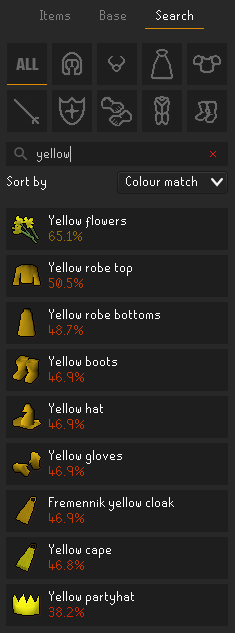
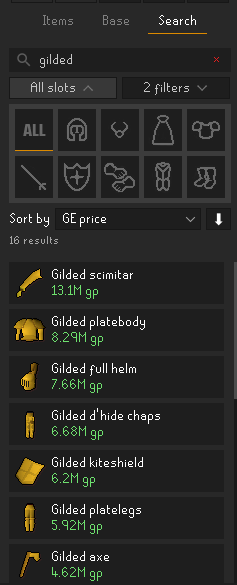
tweaks and readme updates

diff --git a/src/main/java/eq/uirs/fashionscape/panel/search/SearchPanel.java b/src/main/java/eq/uirs/fashionscape/panel/search/SearchPanel.java
@@ -35,6 +35,7 @@ import javax.swing.SwingUtilities;
 import javax.swing.border.EmptyBorder;
 import javax.swing.event.DocumentEvent;
 import javax.swing.event.DocumentListener;
+import lombok.extern.slf4j.Slf4j;
 import net.runelite.api.kit.KitType;
 import net.runelite.client.callback.ClientThread;
 import net.runelite.client.game.ItemManager;
@@ -48,6 +49,7 @@ import net.runelite.client.util.SwingUtil;
 /**
  * Tab panel that houses the search UI: bar, filters, sort, results, etc.
  */
+@Slf4j
 public class SearchPanel extends JPanel
 {
 	private static final int DEBOUNCE_DELAY_MS = 200;
@@ -161,7 +163,8 @@ public class SearchPanel extends JPanel
 		cardLayout.show(centerPanel, ERROR_PANEL);
 
 		// selects the "all" slot initially, which runs the first search
-		filterPanel = new FilterPanel(fashionManager, filters, this::onSlotChanged, this::onFiltersChanged);
+		filterPanel = new FilterPanel(fashionManager, filterStore, filters, this::onSlotChanged,
+			this::onFiltersChanged);
 		infoWrapper.add(createResetFiltersRow(), BorderLayout.CENTER);
 
 		JPanel filterBar = new JPanel(new GridLayout(1, 2, 5, 0));
@@ -357,6 +360,12 @@ public class SearchPanel extends JPanel
 		{
 			return false;
 		}
+		guardSearch(() -> startSearch(postExec));
+		return true;
+	}
+
+	private void startSearch(Runnable postExec)
+	{
 		String query = searchBar.getText().toLowerCase();
 		KitType searchSlot = slot;
 		ItemFilters searchFilters = filters;
@@ -365,21 +374,34 @@ public class SearchPanel extends JPanel
 		if (searchSlot == null && found.size() > itemSearch.largestSlotSize())
 		{
 			showTooManyResults(found.size());
-			return true;
+			return;
 		}
 		SortBy searchSort = sort;
 		boolean inverted = sortInverted;
 		boolean filtered = searchFilters.activeCount() > 0;
 		if (searchSort == SortBy.COLOR_MATCH)
 		{
-			executor.submit(() ->
-				showResults(itemSearch.sort(found, searchSort, inverted), searchSlot, filtered, postExec));
+			executor.submit(() -> guardSearch(() ->
+				showResults(itemSearch.sort(found, searchSort, inverted), searchSlot, filtered, postExec)));
 		}
 		else
 		{
 			showResults(itemSearch.sort(found, searchSort, inverted), searchSlot, filtered, postExec);
 		}
-		return true;
+	}
+
+	// later searches wait on the in-progress flag, so a failed search should still clear it.
+	private void guardSearch(Runnable step)
+	{
+		try
+		{
+			step.run();
+		}
+		catch (RuntimeException | AssertionError e)
+		{
+			log.warn("item search failed", e);
+			searchInProgress.set(false);
+		}
 	}
 
 	private void showTooManyResults(int count)

diff --git a/src/main/java/eq/uirs/fashionscape/panel/search/FilterPanel.java b/src/main/java/eq/uirs/fashionscape/panel/search/FilterPanel.java
@@ -62,7 +62,7 @@ class FilterPanel extends JPanel
 	// true while controls are updated programmatically, so listeners don't report changes
 	private boolean syncing;
 
-	FilterPanel(FashionManager fashionManager, ItemFilters initialFilters,
+	FilterPanel(FashionManager fashionManager, FilterStore filterStore, ItemFilters initialFilters,
 				Consumer<KitType> onSlotChange, Consumer<ItemFilters> onFiltersChange)
 	{
 		this.filters = initialFilters;
@@ -87,8 +87,8 @@ class FilterPanel extends JPanel
 		filterSection.add(rows, BorderLayout.CENTER);
 		filterSection.add(createResetButton(), BorderLayout.SOUTH);
 
-		setUpToggle(slotToggle);
-		setUpToggle(filtersToggle);
+		setUpToggle(slotToggle, filterStore.isSlotsExpanded(), filterStore::setSlotsExpanded);
+		setUpToggle(filtersToggle, filterStore.isFiltersExpanded(), filterStore::setFiltersExpanded);
 		refreshExpanded();
 
 		sync(initialFilters);
@@ -118,10 +118,10 @@ class FilterPanel extends JPanel
 		rowConstraints.gridy = 0;
 		addRow("Members", createComboBox(Membership.values(),
 			ItemFilters::getMembership, ItemFilters::withMembership));
-		addRow("Tradeable", createComboBox(TriState.values(),
-			ItemFilters::getTradeable, ItemFilters::withTradeable));
 		addRow("Has stats", createComboBox(TriState.values(),
 			ItemFilters::getCombatStats, ItemFilters::withCombatStats));
+		addRow("Tradeable", createComboBox(TriState.values(),
+			ItemFilters::getTradeable, ItemFilters::withTradeable));
 		addRow("Value", createComboBox(ValueSource.values(),
 			ItemFilters::getValueSource, ItemFilters::withValueSource));
 
@@ -206,12 +206,16 @@ class FilterPanel extends JPanel
 		onSlotChange.accept(newSlot);
 	}
 
-	private void setUpToggle(JToggleButton toggle)
+	private void setUpToggle(JToggleButton toggle, boolean expanded, Consumer<Boolean> saveExpanded)
 	{
+		toggle.setSelected(expanded);
 		toggle.setFocusPainted(false);
 		toggle.setHorizontalTextPosition(SwingConstants.LEADING);
 		toggle.addMouseListener(PanelUtil.hoverCursor(toggle));
-		toggle.addActionListener(e -> refreshExpanded());
+		toggle.addActionListener(e -> {
+			saveExpanded.accept(toggle.isSelected());
+			refreshExpanded();
+		});
 	}
 
 	private void refreshExpanded()

diff --git a/src/main/java/eq/uirs/fashionscape/panel/search/FilterStore.java b/src/main/java/eq/uirs/fashionscape/panel/search/FilterStore.java
@@ -12,7 +12,7 @@ import lombok.extern.slf4j.Slf4j;
 import net.runelite.client.config.ConfigManager;
 
 /**
- * Persists item filters in config, one key per filter
+ * Persists item filters and which filter panel sections are open in config, one key per setting
  */
 @Slf4j
 @RequiredArgsConstructor(onConstructor_ = {@Inject})
@@ -24,6 +24,8 @@ class FilterStore
 	private static final String KEY_VALUE_SOURCE = "searchValueSource";
 	private static final String KEY_MIN_VALUE = "searchMinValue";
 	private static final String KEY_MAX_VALUE = "searchMaxValue";
+	private static final String KEY_SLOTS_EXPANDED = "searchSlotsExpanded";
+	private static final String KEY_FILTERS_EXPANDED = "searchFiltersExpanded";
 
 	private final ConfigManager configManager;
 	private final FashionscapeConfig config;
@@ -61,6 +63,27 @@ class FilterStore
 		set(KEY_VALUE_SOURCE, filters.getValueSource());
 		set(KEY_MIN_VALUE, filters.getMinValue());
 		set(KEY_MAX_VALUE, filters.getMaxValue());
+	}
+
+	// the slots section starts open. slots used to be always visible
+	boolean isSlotsExpanded()
+	{
+		return getOrDefault(KEY_SLOTS_EXPANDED, Boolean.class, true);
+	}
+
+	void setSlotsExpanded(boolean expanded)
+	{
+		set(KEY_SLOTS_EXPANDED, expanded);
+	}
+
+	boolean isFiltersExpanded()
+	{
+		return getOrDefault(KEY_FILTERS_EXPANDED, Boolean.class, false);
+	}
+
+	void setFiltersExpanded(boolean expanded)
+	{
+		set(KEY_FILTERS_EXPANDED, expanded);
 	}
 
 	private <T> T getOrDefault(String key, Class<T> type, T fallback)

diff --git a/README.md b/README.md
@@ -10,50 +10,21 @@ different combinations of models look like on them.
 ***Disclaimer:*** This plugin isn't intended to be on all the time. Use at your own risk in dangerous areas of the game.
 Your animations may only be correct while your character is idle.
 
-## Update 2026 October
+## Update 2026 October part two: search filters
 
-Saved outfits have finally been migrated to **loadouts**. You can manage these directly in the plugin panel instead of 
-working with clunky plaintext files that were only stored locally.
+The search tab now supports **filters**, so you can narrow results down by more than just slots.
 
-* Loadouts are now saved in your RuneLite config, so they can sync to other devices.
-* The first time you run version 2.1.0+, files in your old `outfits` folder are imported as loadouts, named after each
-  file. RuneLite will move the old folder to `.runelite/plugin-data/fashionscape`. This is where your old setups will
-  be. Assuming they import correctly, feel free to delete the old files. 
-* You can copy loadouts to the clipboard or export them to a file to share them. Old .txt files can still be imported.
-* "Load current equipment" was moved from the load button's right-click menu to the top of the loadouts view.
+* Two buttons under the search bar expand or collapse the **slots** and **filters** sections.
+* Filters include f2p/members, whether the item has combat stats, tradeability (on the GE), and value (GE price or
+  high alch, with a min/max range). Filters are saved between sessions.
+* There's a new **"GE price"** sort option, which shows each item's price.
+* The "all" slot now shows results for an empty search, as long as there aren't too many of them. Results also show
+  how many items match your query + filters.
+* "Exclude members items" now only affects the randomizer. Search uses the "membership" filter instead. If you had the
+  setting on, the filter starts on F2P.
+* The jaw icon slot in the "base" tab is always available now.
 
-## Update 2026 June
-
-Fashionscape v2 reworks almost all the logic behind the plugin. The UI changes are minimal, and things should mostly
-behave as they did in v1. Here are some new inclusions:
-
-* You can now "copy" your own fashionscape much like you can for other players, only you can't right-click yourself.
-  ~~Instead, **right-click the "load" button** in the side panel to clone your items and other models.~~ There's now
-  a button in the "loadouts" panel to load your models into the plugin.
-* The search panel now allows you to directly search for items by
-  [item ID](https://oldschool.runescape.wiki/w/Item_IDs). Even items that don't normally display in search results may
-  be equipped this way (as long as they have models/equipment slots).
-* The randomizer now has a **"Cursed"** setting, which inverts the colour scoring to give you the most mismatched
-  combinations it can.
-* The plugin no longer clears all state once it shuts down. You can safely turn it off and your setup will restore the
-  next time you turn Fashionscape back on. You can also operate the plugin while you're logged out.
-* Equipment slots now rely directly on data derived from the cache instead of the item stats API / the RuneLite wiki
-  scraper: what this means for you is that there should be more options in your searches now. Many of these new results
-  are unobtainable items, such as the
-  [pre-update](https://oldschool.runescape.wiki/w/Torva_full_helm_(unobtainable_item))
-  [Torva](https://oldschool.runescape.wiki/w/Torva_platebody_(unobtainable_item))
-  [armor models](https://oldschool.runescape.wiki/w/Torva_platelegs_(unobtainable_item)).
-* The "exclude non-standard items" setting has been removed. I came up with this definition myself, and I have no idea
-  how to consistently apply it anymore. With new items entering the game all the time, I just can't maintain such a
-  list. Apologies if you found this filter useful.
-* Several long-standing bugs have been fixed, including but not limited to: the plugin conflating "not set" slots with
-  "nothing" slots, several items not appearing in results, and incorrect models from weird items like the gauntlet
-  legwear (which hides boots).
-* A bunch of data that was previously bundled with the plugin now lives in
-  a [separate repo](https://github.com/equirs/fashionscape-data). There's a chance the requests retrieving this info
-  fail. In some cases, GitHub might be down, in which case, the plugin will still work, but you may have to manually
-  clear out some of your base models (you can do this by right-clicking the base model's icon). Idle animations and
-  colour matching will simply not work if these requests fail.
+See the [changelog](https://github.com/equirs/fashionscape-plugin/blob/master/CHANGELOG.md) for earlier updates.
 
 ## User guide
 
@@ -103,26 +74,38 @@ if you're seeing that the plugin is failing to fetch, you may **right-click the 
 (this is intentionally obscure since you'll only need to do this if the plugin's requests are failing). Right-clicking
 the icon a second time will toggle the model back to "not set".
 
-If "exclude members items" is de-selected in the plugin config, there is also an option to change your character's icon
-(the ones used in Barbarian Assault and Soul Wars). While these are technically items, their mechanics function more
-like base models, and the UI for this slot works like all the others in "base".
+There is also an option to change your character's icon (the ones used in Barbarian Assault and Soul Wars).
+While these are technically items, their mechanics function more like base models, and the UI for this slot works
+like all the others in "base".
 
 #### Search tab
 
 ![Search tab](github-res/search_tab.png)
 
 Here you can search for equipment to try on (by name or by [item ID](https://oldschool.runescape.wiki/w/Item_IDs)).
-Leaving the search bar empty will show all the results for a selected slot (except the "all" tab, where too many results
-would be displayed). The results will update as you type. Hovering over an item will show a preview of what it looks
-like on your character. When clicked, the item will update and will display as part of your outfit. If the item is
-already worn, clicking it again removes it. If you have locks enabled, the result text will appear grey instead of
-white, and hovering over the result shows a tooltip indicating which locked slots are preventing you from equipping the
-item.
+The results will update as you type.
 
-There are three sorting options:
+The two buttons under the search bar show and hide the **slots** and **filters** sections. The slots button shows
+which slot you're browsing. The filters button shows how many filters are active.
+
+* Slots: pick an equipment slot, or "all" to search every slot. Locked slots show a lock badge.
+* Filters: membership, has combat stats, tradeable (on the Grand Exchange), and value. For GE price or high alch
+  value, enter a min and/or max, such as `10k` or `1.5m`. "Reset filters" sets every filter back to "any".
+  Filters are saved between sessions.
+
+Leaving the search bar empty shows every result for the selected slot. In "all", results aren't shown if there would
+be more items than the max shown for any single slot, in which case it asks you to narrow the search. Searching an
+exact item ID always shows that item, regardless of slot / filters. Hovering over an item will show a preview of what
+it looks like on your character. When clicked, the item will update and will display as part of your outfit. If the
+item is already worn, clicking it again removes it. If you have locks enabled, the result text will appear grey instead
+of white, and hovering over the result shows a tooltip indicating which locked slots are preventing you from equipping
+the item.
+
+There are four sorting options:
 
 * Default, which roughly orders results by release date (it actually just goes by item IDs; close enough)
 * Alphabetical, pretty self-explanatory
+* GE price, most valuable first. Prices are shown for each result where available.
 * Colour match, which uses aggregated, area-weighted Euclidean colour distances of the "best-matching" colours for that
   result compared to the colours of all the items currently worn (excluding the slot you're currently browsing). With
   this option selected, you can also see the colour-coded percent match for that item.
@@ -166,15 +149,16 @@ where the item slot is locked while the base slot is unlocked.
 
 #### Configuration
 
-To view and randomize only free-to-play items, you can turn on **"exclude members items"**.
+There is a right-click option to **"copy-fashion"** on other players, which imports their entire look on your character,
+including items, colours, and (if your genders match) base models. Since many other plugins provide player menu entries,
+this feature can be toggled off.
 
 The randomizer has a few **"intelligence"** settings. Higher intelligence means the randomizer results will yield items
 that are similar in colour. Lower intelligence settings are computationally faster. "Cursed" attempts to create the most
 mismatched results in terms of colour scoring.
 
-There is a right-click option to **"copy-fashion"** on other players, which imports their entire look on your character,
-including items, colours, and (if your genders match) base models. Since many other plugins provide player menu entries,
-this feature can be toggled off.
+To randomize only free-to-play items, turn on **"exclude members items"** in the randomizer settings. To search only
+free-to-play items, use the membership filter in the search tab.
 
 ## FAQ
 

diff --git a/CHANGELOG.md b/CHANGELOG.md
@@ -1,0 +1,60 @@
+# Changelog
+
+## Update 2026 October part two: search filters
+
+The search tab now supports **filters**, so you can narrow results down by more than just slots.
+
+* Two buttons under the search bar expand or collapse the **slots** and **filters** sections.
+* Filters include f2p/members, whether the item has combat stats, tradeability (on the GE), and value (GE price or
+  high alch, with a min/max range). Filters are saved between sessions.
+* There's a new **"GE price"** sort option, which shows each item's price.
+* The "all" slot now shows results for an empty search, as long as there aren't too many of them. Results also show
+  how many items match your query + filters.
+* "Exclude members items" now only affects the randomizer. Search uses the "membership" filter instead. If you had the
+  setting on, the filter starts on F2P.
+* The jaw icon slot in the "base" tab is always available now.
+
+## Update 2026 October: loadouts
+
+Saved outfits have finally been migrated to **loadouts**. You can manage these directly in the plugin panel instead of 
+working with clunky plaintext files that were only stored locally.
+
+* Loadouts are now saved in your RuneLite config, so they can sync to other devices.
+* The first time you run version 2.1.0+, files in your old `outfits` folder are imported as loadouts, named after each
+  file. RuneLite will move the old folder to `.runelite/plugin-data/fashionscape`. This is where your old setups will
+  be. Assuming they import correctly, feel free to delete the old files. 
+* You can copy loadouts to the clipboard or export them to a file to share them. Old .txt files can still be imported.
+* "Load current equipment" was moved from the load button's right-click menu to the top of the loadouts view.
+
+## Update 2026 June
+
+Fashionscape v2 reworks almost all the logic behind the plugin. The UI changes are minimal, and things should mostly
+behave as they did in v1. Here are some new inclusions:
+
+* You can now "copy" your own fashionscape much like you can for other players, only you can't right-click yourself.
+  ~~Instead, **right-click the "load" button** in the side panel to clone your items and other models.~~ There's now
+  a button in the "loadouts" panel to load your models into the plugin.
+* The search panel now allows you to directly search for items by
+  [item ID](https://oldschool.runescape.wiki/w/Item_IDs). Even items that don't normally display in search results may
+  be equipped this way (as long as they have models/equipment slots).
+* The randomizer now has a **"Cursed"** setting, which inverts the colour scoring to give you the most mismatched
+  combinations it can.
+* The plugin no longer clears all state once it shuts down. You can safely turn it off and your setup will restore the
+  next time you turn Fashionscape back on. You can also operate the plugin while you're logged out.
+* Equipment slots now rely directly on data derived from the cache instead of the item stats API / the RuneLite wiki
+  scraper: what this means for you is that there should be more options in your searches now. Many of these new results
+  are unobtainable items, such as the
+  [pre-update](https://oldschool.runescape.wiki/w/Torva_full_helm_(unobtainable_item))
+  [Torva](https://oldschool.runescape.wiki/w/Torva_platebody_(unobtainable_item))
+  [armor models](https://oldschool.runescape.wiki/w/Torva_platelegs_(unobtainable_item)).
+* The "exclude non-standard items" setting has been removed. I came up with this definition myself, and I have no idea
+  how to consistently apply it anymore. With new items entering the game all the time, I just can't maintain such a
+  list. Apologies if you found this filter useful.
+* Several long-standing bugs have been fixed, including but not limited to: the plugin conflating "not set" slots with
+  "nothing" slots, several items not appearing in results, and incorrect models from weird items like the gauntlet
+  legwear (which hides boots).
+* A bunch of data that was previously bundled with the plugin now lives in
+  a [separate repo](https://github.com/equirs/fashionscape-data). There's a chance the requests retrieving this info
+  fail. In some cases, GitHub might be down, in which case, the plugin will still work, but you may have to manually
+  clear out some of your base models (you can do this by right-clicking the base model's icon). Idle animations and
+  colour matching will simply not work if these requests fail.
